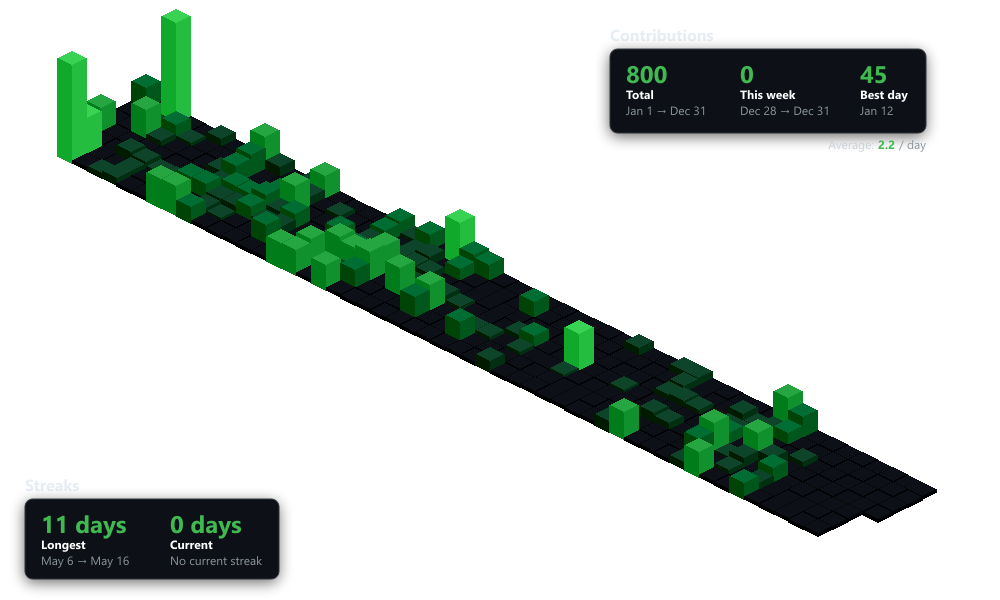
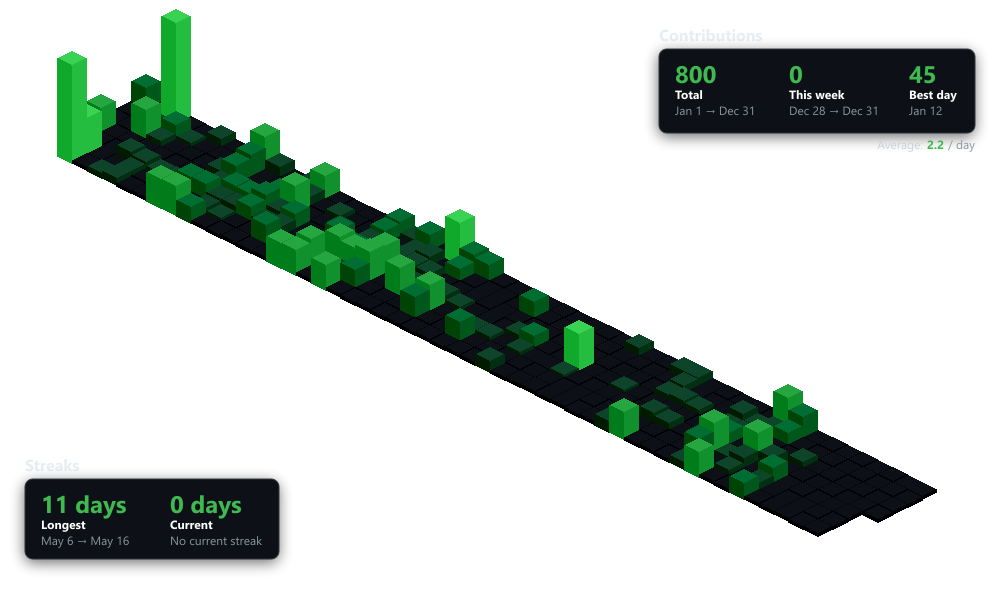
feat: add customizable canvas dimensions for isometric chart rendering

Changed region(s): [[0.589, 0.06, 0.992, 0.27], [0.0, 0.78, 0.31, 0.99]]

diff --git a/src/renderer.js b/src/renderer.js
@@ -125,10 +125,16 @@ export function renderIsometricChart(days, options = {}) {
   const {
     width = 1000,
     height = 600,
-    cubeSize = 16,
-    maxHeight = 100,
     username = null,
   } = options;
+
+  // Scale cube size based on canvas dimensions (base size 16 for 1000x600)
+  const baseWidth = 1000;
+  const baseHeight = 600;
+  const baseCubeSize = 16;
+  const scale = Math.min(width / baseWidth, height / baseHeight);
+  const cubeSize = baseCubeSize * scale;
+  const maxHeight = 100 * scale;
 
   // Create canvas
   const canvas = createCanvas(width, height);
@@ -157,25 +163,33 @@ export function renderIsometricChart(days, options = {}) {
     }, {}),
   );
 
-  // Setup obelisk
-  const point = new obelisk.Point(130, 90);
+  // Position graph with proper centering that scales with canvas size
+  // Original position for 1000x600 was (130, 90) which provided good visual balance
+  // Use proportional positioning: 13% from left, 15% from top
+  const offsetX = width * 0.13;
+  const offsetY = height * 0.15;
+  
+  // Setup obelisk with scaled position
+  const point = new obelisk.Point(offsetX, offsetY);
   const pixelView = new obelisk.PixelView(canvas, point);
 
-  const GH_OFFSET = 14;
+  // Scale the offsets to match cube size scaling
+  const GH_OFFSET = 14 * scale;
+  const DAY_OFFSET = 13 * scale;
   let transform = GH_OFFSET;
 
   // Render each week
   for (const week of weeks) {
     const x = transform / (GH_OFFSET + 1);
     transform += GH_OFFSET;
-    let offsetY = 0;
+    let dayOffsetY = 0;
 
     // Render each day in the week
     for (const day of week) {
-      const y = offsetY / GH_OFFSET;
-      offsetY += 13;
+      const y = dayOffsetY / GH_OFFSET;
+      dayOffsetY += DAY_OFFSET;
 
-      let cubeHeight = 3;
+      let cubeHeight = 3 * scale;
       if (maxCount > 0) {
         cubeHeight += Number.parseInt((maxHeight / maxCount) * day.count, 10);
       }
@@ -344,11 +358,17 @@ export function renderWithStats(days, options = {}) {
 
   const ctx = canvas.getContext("2d");
 
-  // Draw contributions box (top right)
-  drawContributionsBox(ctx, stats, canvas.width - 390, 25);
+  // Calculate scale factor based on canvas size (base size: 1000x600)
+  const scaleFactor = Math.min(canvas.width / 1000, canvas.height / 600);
 
-  // Draw streaks box (bottom left)
-  drawStreaksBox(ctx, stats, 25, canvas.height - 125);
+  // Draw contributions box (top right) - scaled and positioned
+  const contributionsBoxWidth = STYLE_CONFIG.dimensions.contributionsBoxWidth * scaleFactor;
+  const margin = 25 * scaleFactor;
+  drawContributionsBox(ctx, stats, canvas.width - contributionsBoxWidth - margin, margin, scaleFactor);
+
+  // Draw streaks box (bottom left) - scaled and positioned
+  const streaksBoxHeight = STYLE_CONFIG.dimensions.streaksBoxHeight + STYLE_CONFIG.dimensions.titleHeight + STYLE_CONFIG.dimensions.averageBottomMargin;
+  drawStreaksBox(ctx, stats, margin, canvas.height - streaksBoxHeight * scaleFactor - margin, scaleFactor);
 
   // Draw username credit if provided
   if (username) {
@@ -364,30 +384,32 @@ export function renderWithStats(days, options = {}) {
  * @param {Object} stats - Statistics object
  * @param {number} x - X position
  * @param {number} y - Y position
+ * @param {number} scale - Scale factor for responsive sizing
  */
-function drawContributionsBox(ctx, stats, x, y) {
-  const boxWidth = STYLE_CONFIG.dimensions.contributionsBoxWidth;
-  const boxHeight = STYLE_CONFIG.dimensions.contributionsBoxHeight;
-  const titleHeight = STYLE_CONFIG.dimensions.titleHeight;
+function drawContributionsBox(ctx, stats, x, y, scale = 1) {
+  const boxWidth = STYLE_CONFIG.dimensions.contributionsBoxWidth * scale;
+  const boxHeight = STYLE_CONFIG.dimensions.contributionsBoxHeight * scale;
+  const titleHeight = STYLE_CONFIG.dimensions.titleHeight * scale;
 
   // Title (outside, above the box) - aligned with left border of box
   ctx.fillStyle = STYLE_CONFIG.title.color;
-  ctx.font = getFontString(STYLE_CONFIG.title);
-  ctx.fillText("Contributions", x, y + 16);
+  const titleFontSize = STYLE_CONFIG.title.fontSize * scale;
+  ctx.font = `${STYLE_CONFIG.title.fontWeight} ${titleFontSize}px "${STYLE_CONFIG.title.fontFamily}", sans-serif`;
+  ctx.fillText("Contributions", x, y + 16 * scale);
 
   // Box starts below title
   const boxY = y + titleHeight;
 
   // Drop shadow
   ctx.shadowColor = STYLE_CONFIG.box.shadowColor;
-  ctx.shadowBlur = STYLE_CONFIG.box.shadowBlur;
-  ctx.shadowOffsetX = STYLE_CONFIG.box.shadowOffsetX;
-  ctx.shadowOffsetY = STYLE_CONFIG.box.shadowOffsetY;
+  ctx.shadowBlur = STYLE_CONFIG.box.shadowBlur * scale;
+  ctx.shadowOffsetX = STYLE_CONFIG.box.shadowOffsetX * scale;
+  ctx.shadowOffsetY = STYLE_CONFIG.box.shadowOffsetY * scale;
 
   // Box background (transparent/semi-transparent)
   ctx.fillStyle = STYLE_CONFIG.box.backgroundColor;
   ctx.beginPath();
-  ctx.roundRect(x, boxY, boxWidth, boxHeight, STYLE_CONFIG.box.borderRadius);
+  ctx.roundRect(x, boxY, boxWidth, boxHeight, STYLE_CONFIG.box.borderRadius * scale);
   ctx.fill();
 
   // Reset shadow
@@ -398,11 +420,11 @@ function drawContributionsBox(ctx, stats, x, y) {
 
   // Border
   ctx.strokeStyle = STYLE_CONFIG.box.borderColor;
-  ctx.lineWidth = STYLE_CONFIG.box.borderWidth;
+  ctx.lineWidth = STYLE_CONFIG.box.borderWidth * scale;
   ctx.stroke();
 
   // Stats row
-  const itemY = boxY + 12;
+  const itemY = boxY + 12 * scale;
 
   // Total
   drawFlexStatItem(
@@ -410,8 +432,9 @@ function drawContributionsBox(ctx, stats, x, y) {
     stats.countTotal.toString(),
     "Total",
     stats.datesTotal,
-    x + 16,
+    x + 16 * scale,
     itemY,
+    scale,
   );
 
   // This week
@@ -420,8 +443,9 @@ function drawContributionsBox(ctx, stats, x, y) {
     stats.weekCountTotal.toString(),
     "This week",
     stats.weekDatesTotal,
-    x + 130,
+    x + 130 * scale,
     itemY,
+    scale,
   );
 
   // Best day
@@ -433,36 +457,42 @@ function drawContributionsBox(ctx, stats, x, y) {
     stats.maxCount.toString(),
     "Best day",
     bestDayDate,
-    x + 250,
+    x + 250 * scale,
     itemY,
+    scale,
   );
 
   // Average (outside, below the box, right-aligned)
-  const avgY = boxY + boxHeight + STYLE_CONFIG.dimensions.averageBottomMargin;
+  const avgY = boxY + boxHeight + STYLE_CONFIG.dimensions.averageBottomMargin * scale;
+  const avgTextFontSize = STYLE_CONFIG.averageText.fontSize * scale;
+  const avgValueFontSize = STYLE_CONFIG.averageValue.fontSize * scale;
+  const avgUnitFontSize = STYLE_CONFIG.averageUnit.fontSize * scale;
+  
   ctx.fillStyle = STYLE_CONFIG.averageText.color;
-  ctx.font = getFontString(STYLE_CONFIG.averageText);
+  ctx.font = `${STYLE_CONFIG.averageText.fontWeight} ${avgTextFontSize}px "${STYLE_CONFIG.averageText.fontFamily}", sans-serif`;
   const avgText = "Average:";
   const avgNumText = stats.averageCount.toString();
   const dayText = "/ day";
 
   const dayWidth = ctx.measureText(dayText).width;
-  ctx.font = getFontString(STYLE_CONFIG.averageValue);
+  ctx.font = `${STYLE_CONFIG.averageValue.fontWeight} ${avgValueFontSize}px "${STYLE_CONFIG.averageValue.fontFamily}", sans-serif`;
   const numWidth = ctx.measureText(avgNumText).width;
-  ctx.font = getFontString(STYLE_CONFIG.averageText);
+  ctx.font = `${STYLE_CONFIG.averageText.fontWeight} ${avgTextFontSize}px "${STYLE_CONFIG.averageText.fontFamily}", sans-serif`;
   const avgWidth = ctx.measureText(avgText).width;
 
-  const totalWidth = avgWidth + 4 + numWidth + 4 + dayWidth;
+  const spacing = 4 * scale;
+  const totalWidth = avgWidth + spacing + numWidth + spacing + dayWidth;
   const startX = x + boxWidth - totalWidth;
 
   ctx.fillText(avgText, startX, avgY);
 
   ctx.fillStyle = STYLE_CONFIG.averageValue.color;
-  ctx.font = getFontString(STYLE_CONFIG.averageValue);
-  ctx.fillText(avgNumText, startX + avgWidth + 4, avgY);
+  ctx.font = `${STYLE_CONFIG.averageValue.fontWeight} ${avgValueFontSize}px "${STYLE_CONFIG.averageValue.fontFamily}", sans-serif`;
+  ctx.fillText(avgNumText, startX + avgWidth + spacing, avgY);
 
   ctx.fillStyle = STYLE_CONFIG.averageUnit.color;
-  ctx.font = getFontString(STYLE_CONFIG.averageUnit);
-  ctx.fillText(dayText, startX + avgWidth + 4 + numWidth + 4, avgY);
+  ctx.font = `${STYLE_CONFIG.averageUnit.fontWeight} ${avgUnitFontSize}px "${STYLE_CONFIG.averageUnit.fontFamily}", sans-serif`;
+  ctx.fillText(dayText, startX + avgWidth + spacing + numWidth + spacing, avgY);
 }
 
 /**
@@ -471,30 +501,32 @@ function drawContributionsBox(ctx, stats, x, y) {
  * @param {Object} stats - Statistics object
  * @param {number} x - X position
  * @param {number} y - Y position
+ * @param {number} scale - Scale factor for responsive sizing
  */
-function drawStreaksBox(ctx, stats, x, y) {
-  const boxWidth = STYLE_CONFIG.dimensions.streaksBoxWidth;
-  const boxHeight = STYLE_CONFIG.dimensions.streaksBoxHeight;
-  const titleHeight = STYLE_CONFIG.dimensions.titleHeight;
+function drawStreaksBox(ctx, stats, x, y, scale = 1) {
+  const boxWidth = STYLE_CONFIG.dimensions.streaksBoxWidth * scale;
+  const boxHeight = STYLE_CONFIG.dimensions.streaksBoxHeight * scale;
+  const titleHeight = STYLE_CONFIG.dimensions.titleHeight * scale;
 
   // Title (outside, above the box) - aligned with left border of box
   ctx.fillStyle = STYLE_CONFIG.title.color;
-  ctx.font = getFontString(STYLE_CONFIG.title);
-  ctx.fillText("Streaks", x, y + 16);
+  const titleFontSize = STYLE_CONFIG.title.fontSize * scale;
+  ctx.font = `${STYLE_CONFIG.title.fontWeight} ${titleFontSize}px "${STYLE_CONFIG.title.fontFamily}", sans-serif`;
+  ctx.fillText("Streaks", x, y + 16 * scale);
 
   // Box starts below title
   const boxY = y + titleHeight;
 
   // Drop shadow
   ctx.shadowColor = STYLE_CONFIG.box.shadowColor;
-  ctx.shadowBlur = STYLE_CONFIG.box.shadowBlur;
-  ctx.shadowOffsetX = STYLE_CONFIG.box.shadowOffsetX;
-  ctx.shadowOffsetY = STYLE_CONFIG.box.shadowOffsetY;
+  ctx.shadowBlur = STYLE_CONFIG.box.shadowBlur * scale;
+  ctx.shadowOffsetX = STYLE_CONFIG.box.shadowOffsetX * scale;
+  ctx.shadowOffsetY = STYLE_CONFIG.box.shadowOffsetY * scale;
 
   // Box background (transparent/semi-transparent)
   ctx.fillStyle = STYLE_CONFIG.box.backgroundColor;
   ctx.beginPath();
-  ctx.roundRect(x, boxY, boxWidth, boxHeight, STYLE_CONFIG.box.borderRadius);
+  ctx.roundRect(x, boxY, boxWidth, boxHeight, STYLE_CONFIG.box.borderRadius * scale);
   ctx.fill();
 
   // Reset shadow
@@ -505,11 +537,11 @@ function drawStreaksBox(ctx, stats, x, y) {
 
   // Border
   ctx.strokeStyle = STYLE_CONFIG.box.borderColor;
-  ctx.lineWidth = STYLE_CONFIG.box.borderWidth;
+  ctx.lineWidth = STYLE_CONFIG.box.borderWidth * scale;
   ctx.stroke();
 
   // Stats row
-  const itemY = boxY + 12;
+  const itemY = boxY + 12 * scale;
 
   // Longest
   const longestDays = stats.streakLongest === 1 ? "day" : "days";
@@ -519,8 +551,9 @@ function drawStreaksBox(ctx, stats, x, y) {
     longestValue,
     "Longest",
     stats.datesLongest,
-    x + 16,
+    x + 16 * scale,
     itemY,
+    scale,
   );
 
   // Current
@@ -536,8 +569,9 @@ function drawStreaksBox(ctx, stats, x, y) {
     currentValue,
     "Current",
     currentSubtext,
-    x + 145,
+    x + 145 * scale,
     itemY,
+    scale,
   );
 }
 
@@ -550,23 +584,27 @@ function drawStreaksBox(ctx, stats, x, y) {
  * @param {string} subtext - Subtext (small, gray, date range)
  * @param {number} x - X position
  * @param {number} y - Y position
+ * @param {number} scale - Scale factor for responsive sizing
  */
-function drawFlexStatItem(ctx, value, label, subtext, x, y) {
+function drawFlexStatItem(ctx, value, label, subtext, x, y, scale = 1) {
   // Value (large number)
   ctx.fillStyle = STYLE_CONFIG.value.color;
-  ctx.font = getFontString(STYLE_CONFIG.value);
-  ctx.fillText(value, x, y + 22);
+  const valueFontSize = STYLE_CONFIG.value.fontSize * scale;
+  ctx.font = `${STYLE_CONFIG.value.fontWeight} ${valueFontSize}px "${STYLE_CONFIG.value.fontFamily}", sans-serif`;
+  ctx.fillText(value, x, y + 22 * scale);
 
   // Label (Total, This week, etc.)
   ctx.fillStyle = STYLE_CONFIG.label.color;
-  ctx.font = getFontString(STYLE_CONFIG.label);
-  ctx.fillText(label, x, y + 38);
+  const labelFontSize = STYLE_CONFIG.label.fontSize * scale;
+  ctx.font = `${STYLE_CONFIG.label.fontWeight} ${labelFontSize}px "${STYLE_CONFIG.label.fontFamily}", sans-serif`;
+  ctx.fillText(label, x, y + 38 * scale);
 
   // Subtext (date range) - single line
   if (subtext && subtext.length > 0) {
     ctx.fillStyle = STYLE_CONFIG.subtext.color;
-    ctx.font = getFontString(STYLE_CONFIG.subtext);
-    ctx.fillText(subtext, x, y + 54);
+    const subtextFontSize = STYLE_CONFIG.subtext.fontSize * scale;
+    ctx.font = `${STYLE_CONFIG.subtext.fontWeight} ${subtextFontSize}px "${STYLE_CONFIG.subtext.fontFamily}", sans-serif`;
+    ctx.fillText(subtext, x, y + 54 * scale);
   }
 }
 
@@ -581,18 +619,21 @@ function drawUsernameCredit(ctx, username, canvasWidth, canvasHeight) {
   // Save context state
   ctx.save();
 
-  // Discrete styling - small, subtle text
-  const fontSize = 11;
+  // Calculate scale factor based on canvas size
+  const scaleFactor = Math.min(canvasWidth / 1000, canvasHeight / 600);
+
+  // Discrete styling - small, subtle text with scaling
+  const fontSize = 11 * scaleFactor;
   const fontFamily = STYLE_CONFIG.subtext?.fontFamily || "Segoe UI";
   ctx.font = `${fontSize}px "${fontFamily}", sans-serif`;
-
+  
   // Very subtle color with low opacity
   const baseColor = STYLE_CONFIG.subtext?.color || "#768390";
   ctx.fillStyle = baseColor;
   ctx.globalAlpha = 0.5; // Make it more discrete
 
   // Position in bottom right with padding
-  const padding = 12;
+  const padding = 12 * scaleFactor;
   const text = `@${username}`;
   const textWidth = ctx.measureText(text).width;
   const x = canvasWidth - textWidth - padding;

diff --git a/generate.js b/generate.js
@@ -24,6 +24,12 @@ const year =
 const hasStatsFlag = args.includes("--stats");
 const hasCreditFlag = args.includes("--credit");
 
+// Parse width and height flags
+const widthIndex = args.indexOf("--width");
+const heightIndex = args.indexOf("--height");
+const customWidth = widthIndex >= 0 && args[widthIndex + 1] ? Number.parseInt(args[widthIndex + 1], 10) : 1000;
+const customHeight = heightIndex >= 0 && args[heightIndex + 1] ? Number.parseInt(args[heightIndex + 1], 10) : 600;
+
 // Determine output filename
 let output;
 if (args.length >= 3 && !args[2].startsWith("--")) {
@@ -34,14 +40,16 @@ if (args.length >= 3 && !args[2].startsWith("--")) {
 
 if (!username) {
   console.error(
-    "Usage: node generate.js <username> [year] [output] [--stats] [--credit]",
+    "Usage: node generate.js <username> [year] [output] [--stats] [--credit] [--width W] [--height H]",
   );
   console.error(
-    "Example: node generate.js spectrewolf8 2025 graph.png --stats --credit",
+    "Example: node generate.js spectrewolf8 2025 graph.png --stats --credit --width 1920 --height 1080",
   );
   console.error("\nOptions:");
-  console.error("  --stats    Include statistics overlay on the image");
-  console.error("  --credit   Show username in bottom right corner");
+  console.error("  --stats          Include statistics overlay on the image");
+  console.error("  --credit         Show username in bottom right corner");
+  console.error("  --width <px>     Canvas width in pixels (default: 1000)");
+  console.error("  --height <px>    Canvas height in pixels (default: 600)");
   process.exit(1);
 }
 
@@ -74,8 +82,8 @@ async function main() {
     // Render isometric chart
     console.log("\nRendering isometric chart...");
     const renderOptions = {
-      width: 1000,
-      height: 1000,
+      width: customWidth,
+      height: customHeight,
       username: hasCreditFlag ? username : null,
     };
     const canvas = hasStatsFlag
